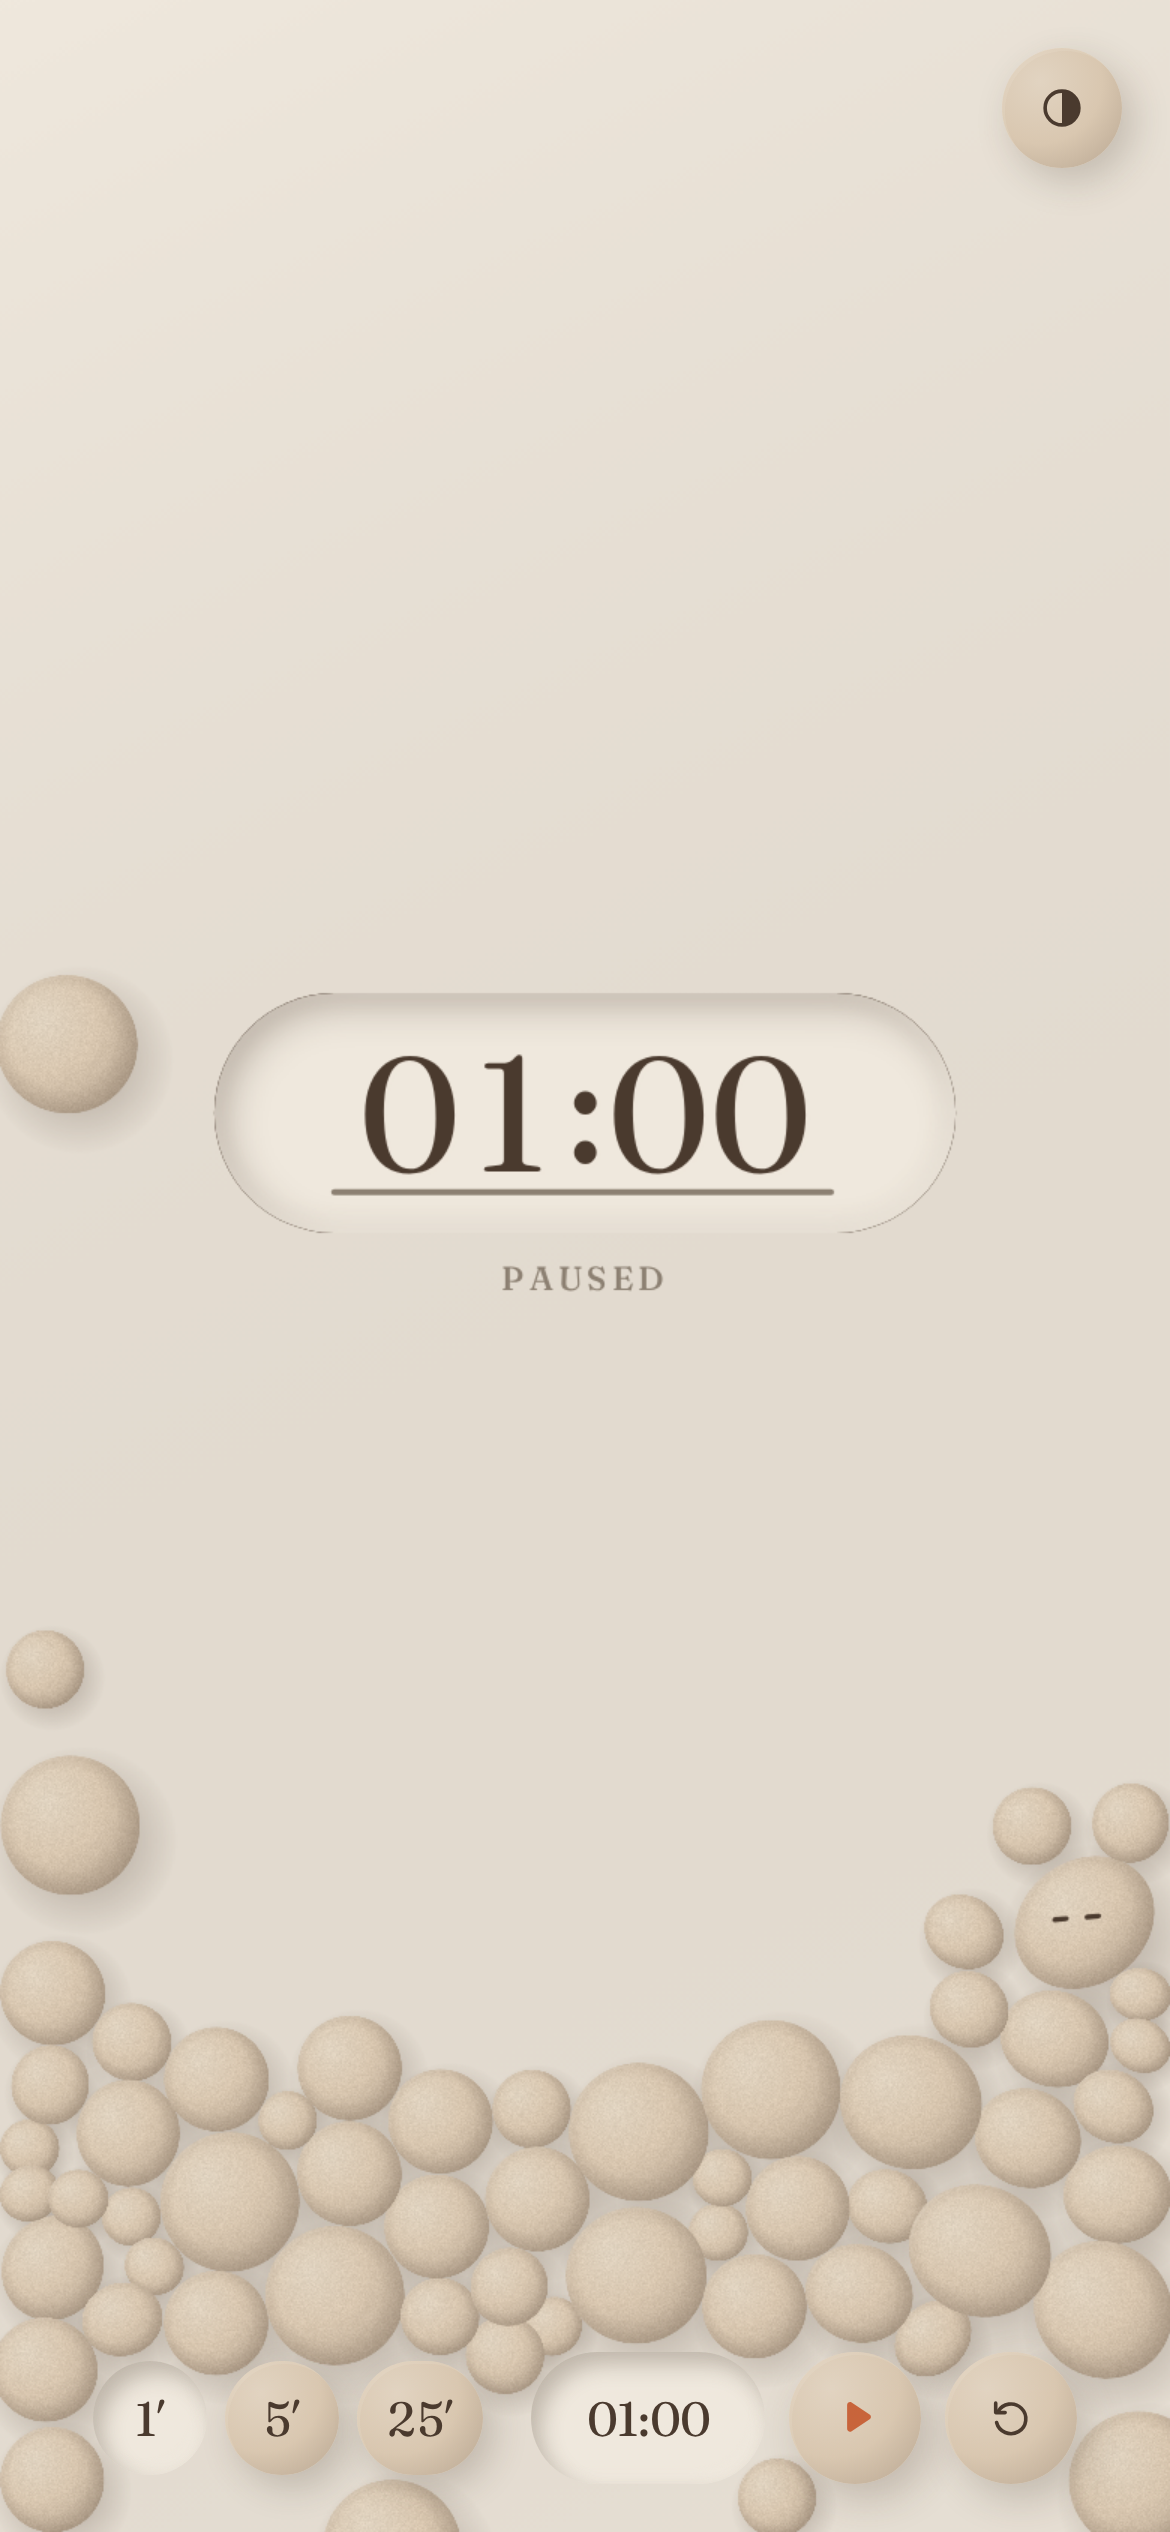
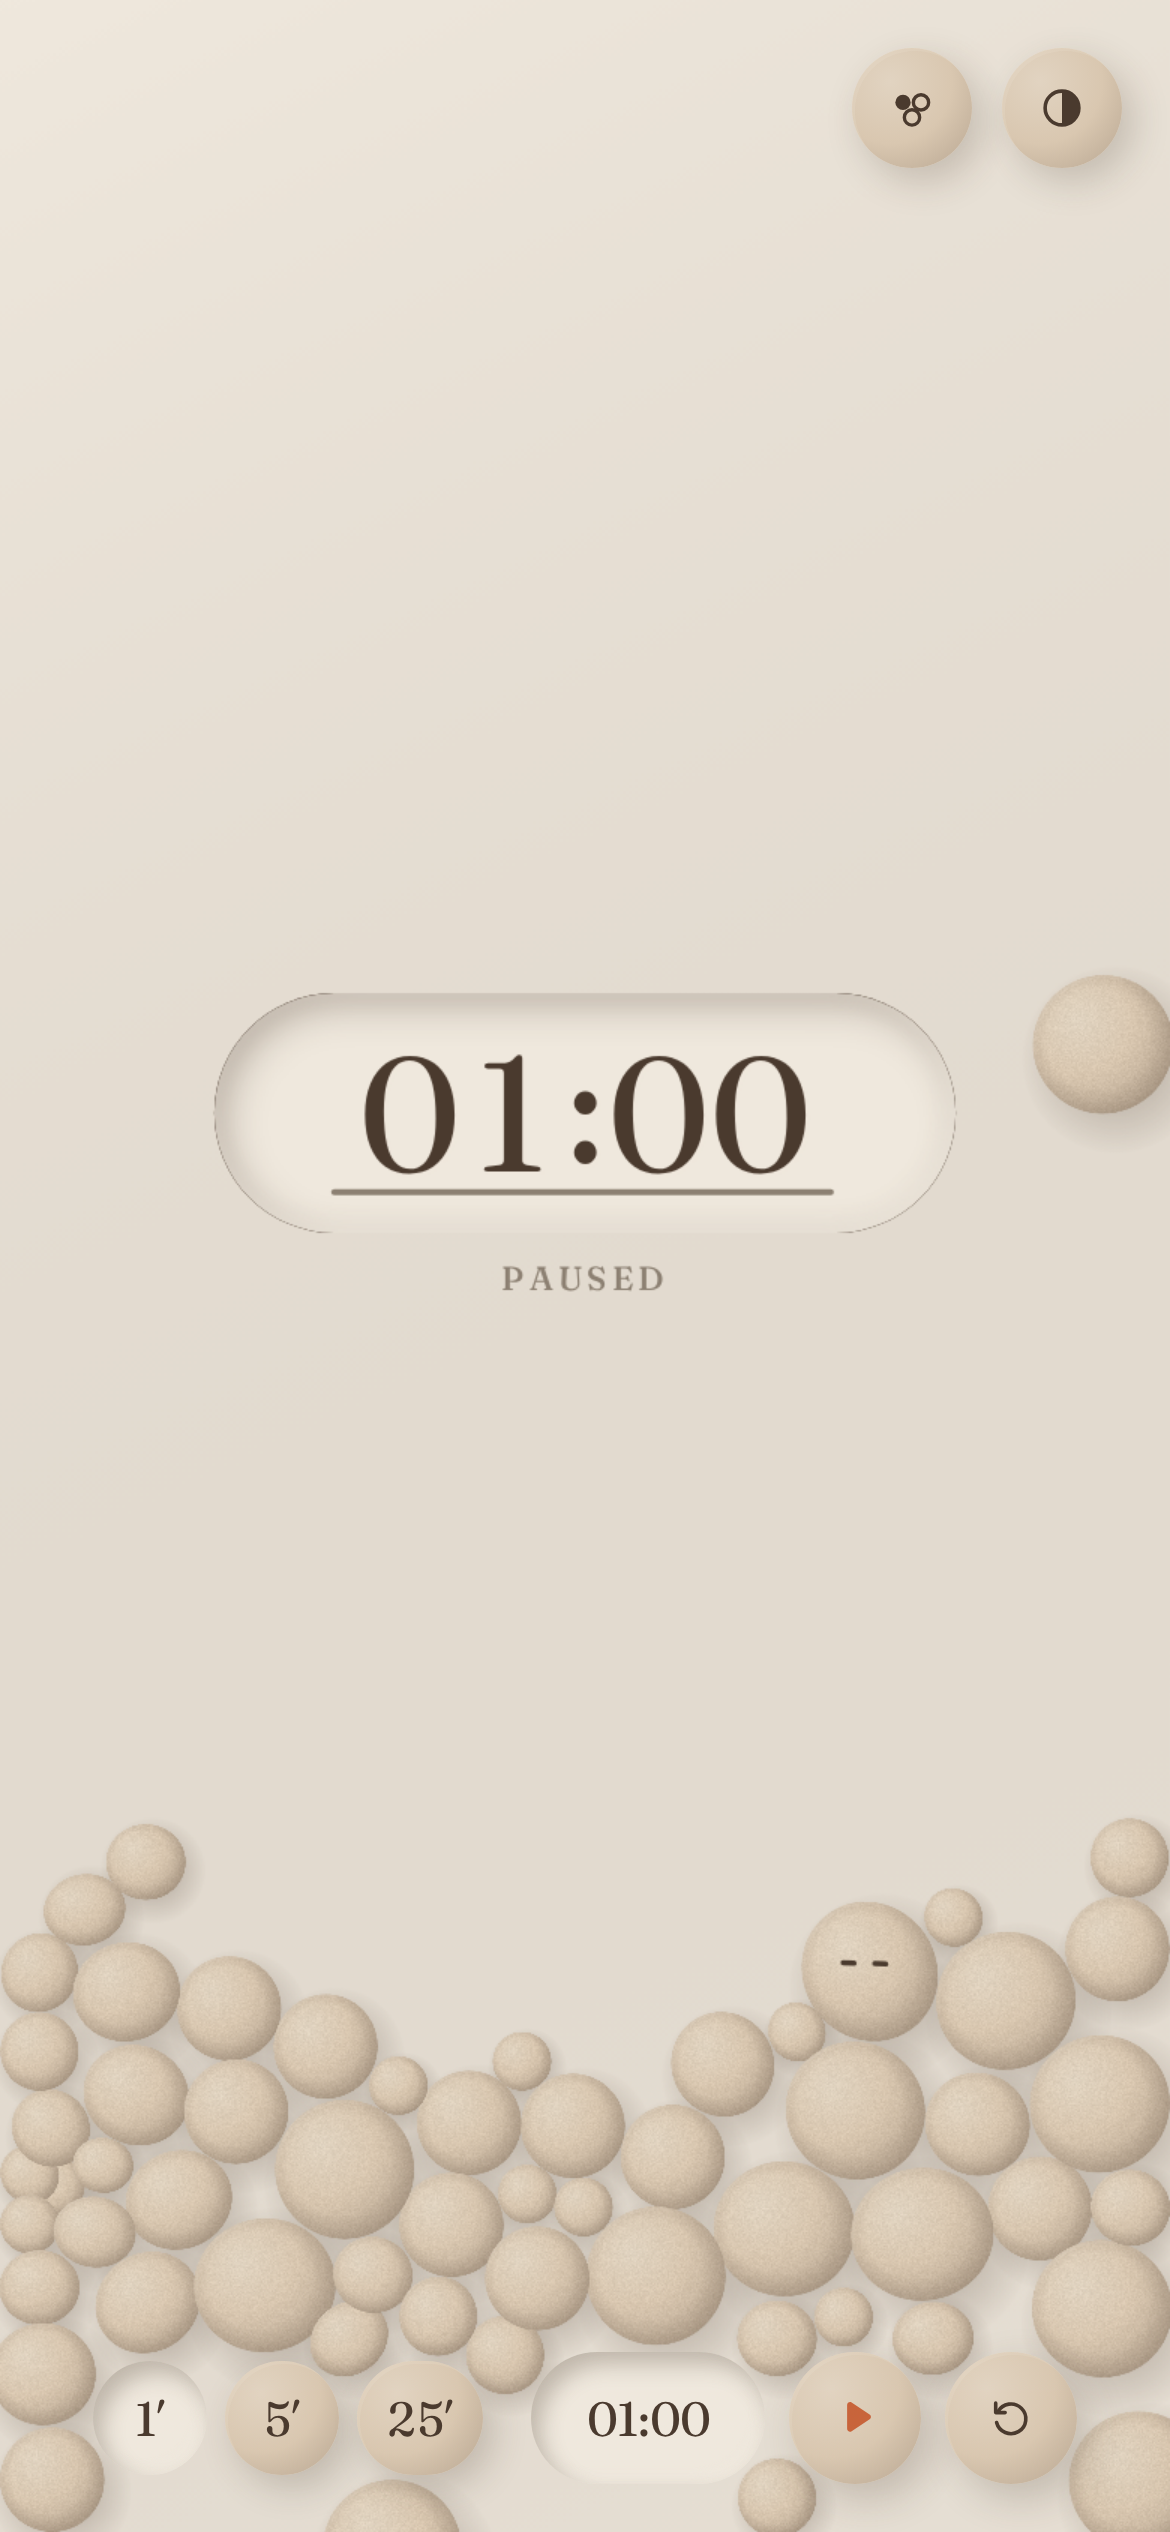
Add mixed-glaze (multicolor clay) variant with in-page toggle
- Oat / Celadon / Terracotta glazes, still a 5-color system
  (Ash becomes derived, Terracotta doubles as the accent)
- Terracotta only on the two smallest sizes; Keeper stays Oat
- Muted terracotta body so the accent digit stays the single focus
- DESIGN.md section 10 and color-* screenshots

Claude-Session: https://claude.ai/code/session_01RTcCsnNEE6vf2bpxptQvy7

diff --git a/dots-countdown.html b/dots-countdown.html
@@ -16,6 +16,9 @@
   --umber: #4A3A2E;
   --ember: #C8643B;
   --ash:   #8C8072;
+  /* 多色陶石（Glaze: mixed）才使用的兩種釉色 */
+  --celadon: #AEBBA7;
+  --terra:   #C8643B;
   /* 光的角色（由具名色推得，不是新顏色） */
   --bright: var(--kiln);
   --deep:   var(--umber);
@@ -35,6 +38,7 @@
 @media (prefers-color-scheme: dark) {
   :root:not([data-theme="light"]) {
     --kiln:  #1C1916; --clay: #3A332C; --umber: #EADFD1; --ember: #E3804F; --ash: #7A7064;
+    --celadon: #2E3A33; --terra: #E3804F;
     --bright: var(--umber); --deep: var(--kiln);
     --hl: 22%; --dk: 45%; --sh-a: 55%; --rim-a: 35%; --wt-digits: 340;
     color-scheme: dark;
@@ -42,9 +46,16 @@
 }
 :root[data-theme="dark"] {
   --kiln:  #1C1916; --clay: #3A332C; --umber: #EADFD1; --ember: #E3804F; --ash: #7A7064;
+  --celadon: #2E3A33; --terra: #E3804F;
   --bright: var(--umber); --deep: var(--kiln);
   --hl: 22%; --dk: 45%; --sh-a: 55%; --rim-a: 35%; --wt-digits: 340;
   color-scheme: dark;
+}
+/* 多色陶石：5 色 = Kiln / Umber / Oat(=Clay) / Celadon / Terracotta。
+   Terracotta 兼任強調色；Ash 不再是具名色，改由 Kiln 混 Umber 58% 推得。 */
+:root[data-glaze="mixed"] {
+  --ember: var(--terra);
+  --ash: color-mix(in oklab, var(--kiln), var(--umber) 58%);
 }
 
 * { box-sizing: border-box; }
@@ -139,7 +150,7 @@ canvas#stage.grabbing { cursor: grabbing; }
 .presets { display: flex; gap: 8px; }
 .presets .clay { --size: 40px; padding: 0 12px; font-feature-settings: "tnum"; }
 #play.paused { color: var(--ember); }   /* Ember 的第 2 種用途 */
-.corner { position: fixed; top: max(16px, env(safe-area-inset-top)); right: 16px; }
+.corner { position: fixed; top: max(16px, env(safe-area-inset-top)); right: 16px; display: flex; gap: 10px; }
 .corner .clay { --size: 40px; }
 .sr { position: absolute; width: 1px; height: 1px; overflow: hidden; clip: rect(0 0 0 0); white-space: nowrap; }
 
@@ -161,6 +172,9 @@ canvas#stage.grabbing { cursor: grabbing; }
 <div class="sr" aria-live="polite" id="live"></div>
 
 <div class="corner">
+  <button class="clay round" id="glaze" aria-pressed="false" aria-label="多色陶石" title="多色陶石">
+    <svg viewBox="0 0 24 24" aria-hidden="true"><circle cx="8" cy="9.5" r="3.4" fill="currentColor"/><circle cx="16" cy="9.5" r="3.4" fill="none" stroke="currentColor" stroke-width="1.5"/><circle cx="12" cy="16.2" r="3.4" fill="none" stroke="currentColor" stroke-width="1.5"/></svg>
+  </button>
   <button class="clay round" id="theme" aria-label="切換主題（自動）" title="主題：自動">
     <svg viewBox="0 0 24 24" aria-hidden="true"><circle cx="12" cy="12" r="7.5" fill="none" stroke="currentColor" stroke-width="1.6"/><path id="themeFill" d="M12 4.5a7.5 7.5 0 0 1 0 15z" fill="currentColor"/></svg>
   </button>
@@ -239,6 +253,9 @@ const ctx = cv.getContext('2d');
 const mqDark = matchMedia('(prefers-color-scheme: dark)');
 const mqReduce = matchMedia('(prefers-reduced-motion: reduce)');
 let reduced = mqReduce.matches || qs.get('reduced') === '1';
+let glaze = 'mono';
+try { glaze = localStorage.getItem('dots-glaze') === 'mixed' ? 'mixed' : 'mono'; } catch (e) {}
+if (qs.get('glaze') === 'mixed' || qs.get('glaze') === 'mono') glaze = qs.get('glaze');
 
 let W = 0, H = 0, DPR = 1, R = 30, G = 1800;
 const FONT = '"Fraunces", Georgia, serif';
@@ -255,8 +272,10 @@ function resolvedTheme() {
 function readPalette() {
   const cs = getComputedStyle(root);
   const g = n => hex(cs.getPropertyValue(n));
-  pal = { kiln: g('--kiln'), clay: g('--clay'), umber: g('--umber'), ember: g('--ember'), ash: g('--ash') };
   const dark = resolvedTheme() === 'dark';
+  pal = { kiln: g('--kiln'), clay: g('--clay'), umber: g('--umber'), ember: g('--ember'), ash: g('--ash'),
+          celadon: g('--celadon'), terra: g('--terra') };
+  if (glaze === 'mixed') { pal.ember = pal.terra; pal.ash = mix(pal.kiln, pal.umber, 0.58); }
   pal.bright = dark ? pal.umber : pal.kiln;
   pal.deep = dark ? pal.kiln : pal.umber;
   look = dark
@@ -265,17 +284,24 @@ function readPalette() {
 }
 
 /* ════════════════════ 材質 sprite：霧面陶土（唯一材質） ════════════════════ */
-let dotSprite, shadowSprite, bgCanvas;
+let dotSprites = [], shadowSprite, bgCanvas;
 function buildSprites() {
+  // 釉色 0 = Oat（原 Clay），1 = Celadon，2 = 赤陶本體。
+  // 純 Terracotta 保留給強調色；陶石用「未燒透」的赤陶：亮色混 Oat 35%，暗色混 Deep 45%
+  const bodies = [pal.clay, pal.celadon, look.dark ? mix(pal.terra, pal.deep, 0.45) : mix(pal.terra, pal.clay, 0.35)];
+  dotSprites = (glaze === 'mixed' ? bodies : [pal.clay]).map(makeClaySprite);
+  buildShadowSprite();
+}
+function makeClaySprite(body) {
   const S = 256, r = S / 2;
   const c = document.createElement('canvas'); c.width = c.height = S;
   const g = c.getContext('2d');
   // 漫反射：光心偏左上 0.35r
   const lx = r + LIGHT.x * Math.SQRT2 * 0.35 * r, ly = r + LIGHT.y * Math.SQRT2 * 0.35 * r;
   const grd = g.createRadialGradient(lx, ly, 0, lx, ly, 1.55 * r);
-  grd.addColorStop(0, rgb(mix(pal.clay, pal.bright, look.hl)));
-  grd.addColorStop(0.5, rgb(pal.clay));
-  grd.addColorStop(1, rgb(mix(pal.clay, pal.deep, look.dk)));
+  grd.addColorStop(0, rgb(mix(body, pal.bright, look.hl)));
+  grd.addColorStop(0.5, rgb(body));
+  grd.addColorStop(1, rgb(mix(body, pal.deep, look.dk)));
   g.fillStyle = grd; g.beginPath(); g.arc(r, r, r - 1, 0, TAU); g.fill();
   // 顆粒 ±4%
   const id = g.getImageData(0, 0, S, S), d = id.data, nr = mulberry32(7);
@@ -295,7 +321,10 @@ function buildSprites() {
   rim.addColorStop(0.1, rgb(pal.bright, look.rim)); rim.addColorStop(0.42, rgb(pal.bright, 0));
   g.strokeStyle = rim; g.lineWidth = S * 0.025;
   g.beginPath(); g.arc(r, r, r - 1 - S * 0.0125, 0, TAU); g.stroke();
-  dotSprite = c;
+  return c;
+}
+function buildShadowSprite() {
+  const S = 256, r = S / 2;
 
   // 投影：Deep 色、軟邊
   const s = document.createElement('canvas'); s.width = s.height = S;
@@ -456,18 +485,24 @@ function place(d) {
   }
   d.x = d.r + rand() * (W - 2 * d.r); d.y = d.r + rand() * (H * 0.2);
 }
+const glazeRand = mulberry32(seed ^ 0x9E3779B9);
+function pickGlaze(level) {
+  const u = glazeRand();
+  if (level >= 2 && u < 0.28) return 2;   // 赤陶只出現在小顆，當作點綴而非焦點
+  return u < 0.62 ? 0 : 1;
+}
 function makeDot(level) {
   const d = {
     level, r: R * SIZE_STEPS[level], x: 0, y: 0, vx: 0, vy: 0, m: 1,
     q: 0, qv: 0, qa: 0, p1: rand() * TAU, p2: rand() * TAU,
-    slot: null, releaseAt: Infinity, grounded: false, lift: spring(0),
+    slot: null, releaseAt: Infinity, grounded: false, lift: spring(0), glaze: pickGlaze(level),
   };
   d.m = d.r * d.r;
   return d;
 }
 function syncDots() {
   const n = targetCount();
-  if (!keeper) { keeper = makeDot(0); keeper.keeper = true; dots.push(keeper); place(keeper); }
+  if (!keeper) { keeper = makeDot(0); keeper.keeper = true; keeper.glaze = 0; dots.push(keeper); place(keeper); }
   while (dots.length > n) dots.pop();
   while (dots.length < n) { const d = makeDot(pickLevel()); dots.push(d); place(d); }
   for (const d of dots) {
@@ -685,7 +720,7 @@ function readObstacles() {
     obstacles.push({ cx: b.left + b.width / 2, cy: b.top + b.height / 2, hw: Math.max(0, b.width / 2 - b.height / 2), cr });
   };
   if (!bar.classList.contains('hidden')) bar.querySelectorAll('.clay, .field').forEach(add);
-  add(themeBtn);
+  add(themeBtn); add(glazeBtn);
 }
 function collide() {
   const n = dots.length;
@@ -759,7 +794,7 @@ function drawShadow(d) {
 function drawBody(d) {
   const m = squashMatrix(d, 1 + d.lift.x * 0.06);
   ctx.setTransform(m[0] * DPR, m[1] * DPR, m[2] * DPR, m[3] * DPR, d.x * DPR, d.y * DPR);
-  ctx.drawImage(dotSprite, -d.r, -d.r, d.r * 2, d.r * 2);
+  ctx.drawImage(dotSprites[d.glaze] || dotSprites[0], -d.r, -d.r, d.r * 2, d.r * 2);
   if (d === keeper) drawEyes(d.r);
   ctx.setTransform(DPR, 0, 0, DPR, 0, 0);
 }
@@ -1009,6 +1044,15 @@ addEventListener('keydown', e => {
 });
 addEventListener('pointermove', () => activity(performance.now()), { passive: true });
 
+const glazeBtn = document.getElementById('glaze');
+function applyGlaze(g) {
+  glaze = g;
+  if (g === 'mixed') root.dataset.glaze = 'mixed'; else delete root.dataset.glaze;
+  glazeBtn.setAttribute('aria-pressed', String(g === 'mixed'));
+  glazeBtn.title = g === 'mixed' ? '多色陶石（開）' : '多色陶石（關）';
+  try { localStorage.setItem('dots-glaze', g); } catch (e) {}
+}
+glazeBtn.addEventListener('click', () => { applyGlaze(glaze === 'mixed' ? 'mono' : 'mixed'); retheme(); announce(glaze === 'mixed' ? '多色陶石' : '單色陶石'); });
 const THEMES = ['auto', 'light', 'dark'];
 function applyTheme(t) {
   if (t === 'auto') delete root.dataset.theme; else root.dataset.theme = t;
@@ -1040,6 +1084,7 @@ function resize() {
 addEventListener('resize', resize);
 
 /* ════════════════════ 啟動 ════════════════════ */
+applyGlaze(glaze);
 readPalette();
 applyTheme(THEMES[themeIdx]);
 resize();

diff --git a/DESIGN.md b/DESIGN.md
@@ -205,3 +205,41 @@
 | 7 | 最後 10 秒的環在手機上擁擠、互相卡住 | §4.1 Settle 隊形 | 以弦長分配角度、依目前方位入座、未入環者被推出環帶 |
 | 8 | 粉塵粒子疊在陶石上，看起來像第二張臉 | §0 只有 Keeper 有臉 | 粒子改畫在桌面層（陶石之下） |
 | 9 | 減少動態模式下，控制列自動隱藏導致石堆移動 | §4.5 | 減少動態時控制列常駐；實測 1 秒內最大位移 < 0.3px |
+
+---
+
+## 10. 變體：多色陶石（Glaze: mixed）
+
+右上角的「三顆石」按鈕可以切換。偏好存在瀏覽器裡，也可以用網址參數 `?glaze=mixed` 指定。
+**只換釉色，其餘系統完全不變**：光源、材質、動態、字體、構圖規則都沿用上面各章。
+
+### 10.1 色彩：仍然只有 5 個具名色
+
+| Token | 名稱 | 亮色 | 暗色 | 用途 |
+|---|---|---|---|---|
+| `--kiln`    | Kiln 窯底     | `#EFE8DD` | `#1C1916` | 背景、凹槽底面 |
+| `--umber`   | Umber 焦褐    | `#4A3A2E` | `#EADFD1` | 數字、文字、眼睛 |
+| `--clay`    | Oat 燕麥（原 Clay） | `#D9C7B0` | `#3A332C` | 主要陶石、按鈕、**Keeper 固定用這色** |
+| `--celadon` | Celadon 青瓷  | `#AEBBA7` | `#2E3A33` | 第二種陶石 |
+| `--terra`   | Terracotta 赤陶 | `#C8643B` | `#E3804F` | 強調色（取代 Ember，值相同）＋點綴陶石 |
+
+- Ash 在此模式**不是具名色**，改為推算色：`Ash = Kiln 混 Umber 58%`，對比度與原本的 Ash 相當。
+- 陶石用的赤陶是「未燒透」的版本：亮色 = Terracotta 混 Oat 35%，暗色 = Terracotta 混 Deep 45%。
+  純 Terracotta 只保留給強調色（最後 10 秒數字、暫停中的播放鍵、輸入框底線），維持「同一時間一個焦點」。
+
+### 10.2 分配規則
+
+| 釉色 | 比例（約） | 限制 |
+|---|---|---|
+| Oat | 55% | Keeper 永遠是 Oat，身分不隨模式改變 |
+| Celadon | 35% | 任何尺寸 |
+| Terracotta | 10% | **只出現在最小兩級（0.56R、0.42R）**，當作點綴 |
+
+釉色由獨立的亂數序列決定，切換模式不會改變陶石的位置和大小。
+
+### 10.3 自我檢查
+
+| # | 發現的不一致 | 修正 |
+|---|---|---|
+| 1 | 亮色模式下赤陶陶石與最後 10 秒的 Ember 數字同色同飽和度，形成兩個焦點 | 陶石本體改為 Terracotta 混 Oat 35%，純色只留給強調 |
+| 2 | 若直接新增兩色會超過 5 色上限 | Ash 降為推算色，Terracotta 與強調色合併為同一個具名色 |
